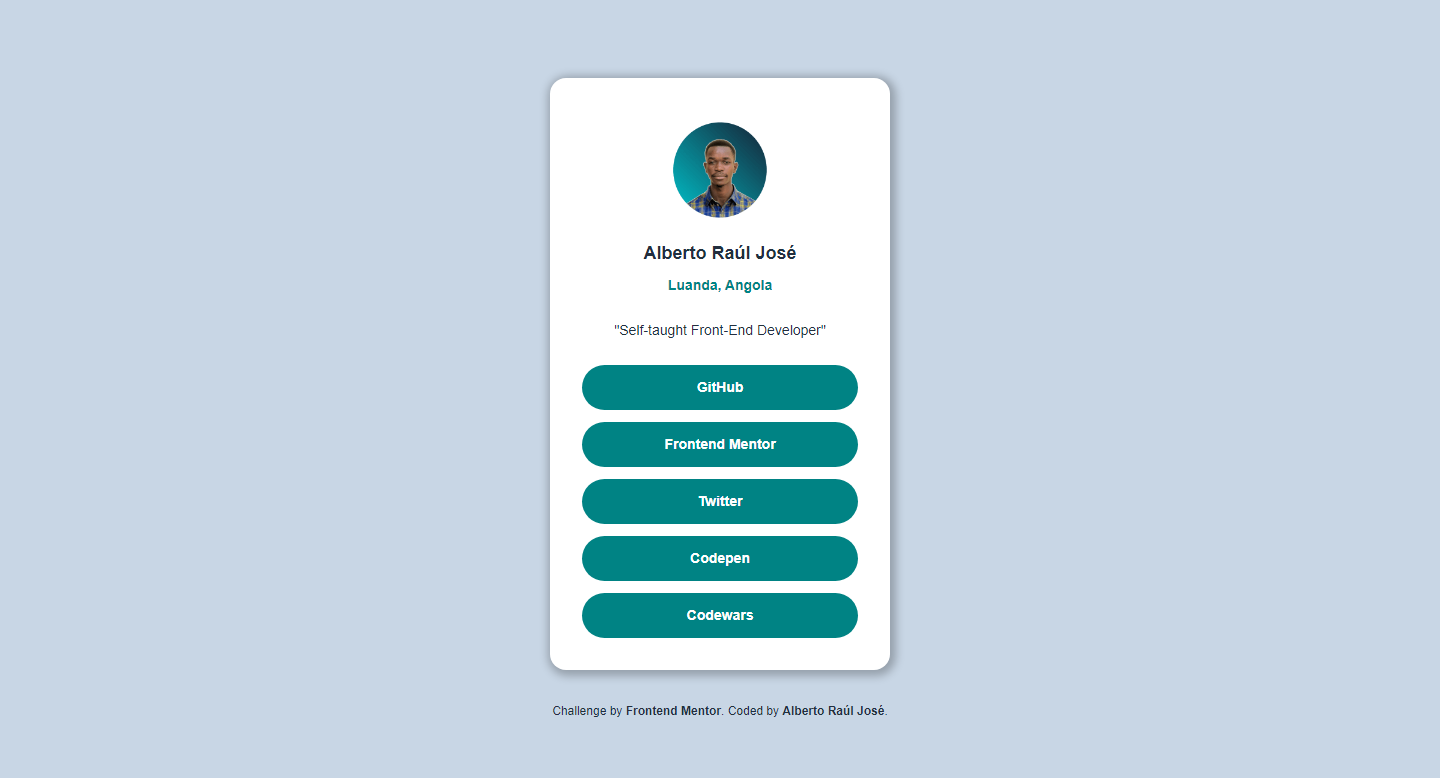
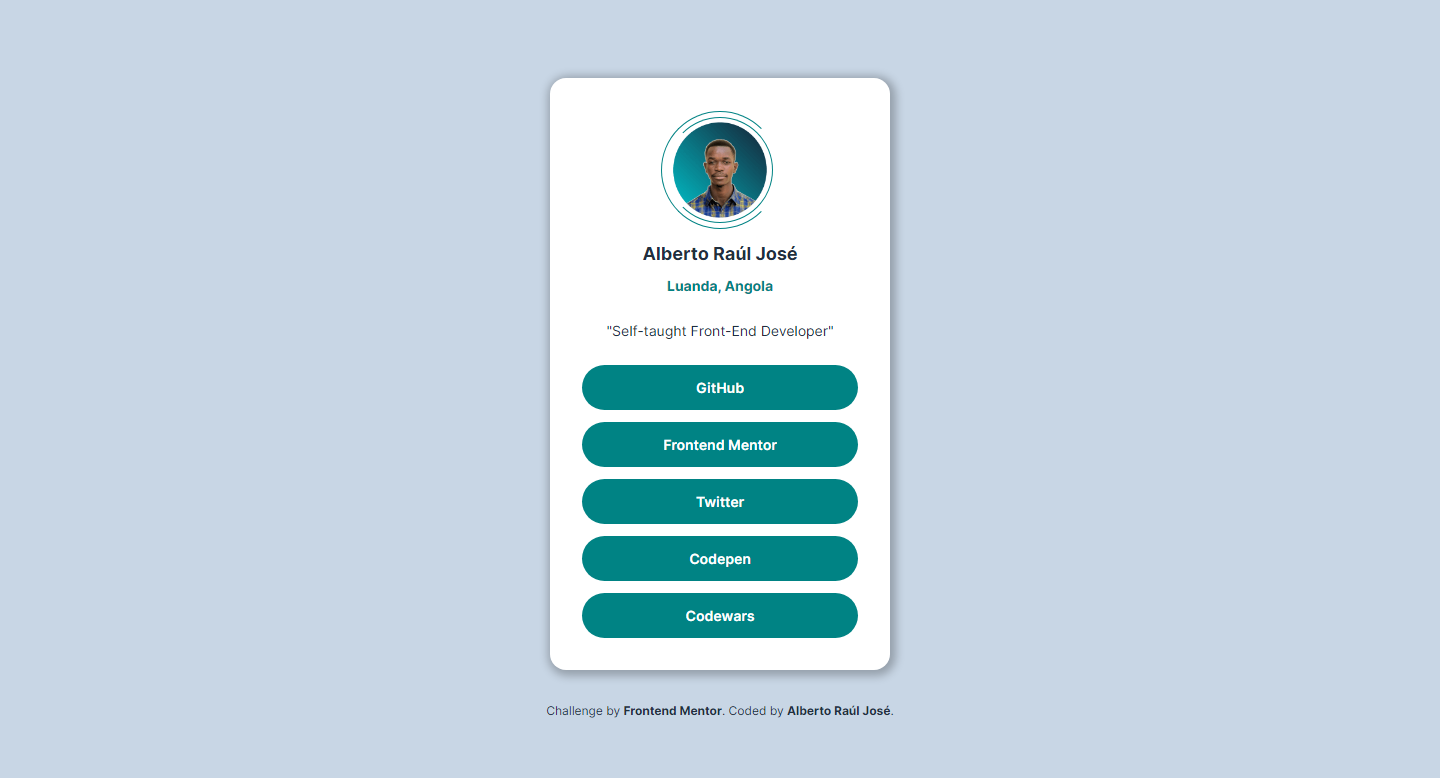
updated project

diff --git a/index.html b/index.html
@@ -10,48 +10,49 @@
   <meta name="viewport" content="width=device-width, initial-scale=1.0">
 
   <link rel="icon" type="image/png" sizes="32x32" href="./assets/images/favicon-32x32.png">
-  <link rel="stylesheet" href="style.css">
-  <link 
-    rel="stylesheet" as="font" type="font/woff2" 
-    href="./assets/fonts/Inter.woff2" 
-  />
+  <link rel="stylesheet" href="styles/fonts.css">
+  <link rel="stylesheet" href="styles/index.css">
 </head>
 <body class="page">
 
   <main class="main-content">
     <h1 class="visually-hidden">My social networks</h1>
-    <div class="card">
-      <img 
-        src="assets/images/avatar-alberto.webp" 
-        alt="A profile picture of Alberto Raúl José" 
-        width="120" 
-        height="120" 
-        class="card__user-photo"
-      />
-      <p class="card__user-name">Alberto Raúl José</p>
-      <p class="card__user-location">Luanda, Angola</p>
-      <p class="card__user-description">"Self-taught Front-End Developer"</p>
+    <div class="card traslate-from-left traslate-from-left--quick">
+      <div class="avatar traslate-from-left translate-delay-1">
+        <img 
+          src="assets/images/avatar-alberto.webp" 
+          alt="A profile picture of Alberto Raúl José" 
+          width="120" 
+          height="120" 
+          class="card__user-photo"
+        />
+        <div class="circle-1"></div>
+        <div class="circle-2"></div>
+      </div>
+      <p class="card__user-name traslate-from-left">Alberto Raúl José</p>
+      <p class="card__user-location traslate-from-left translate-delay-2">Luanda, Angola</p>
+      <p class="card__user-description traslate-from-left translate-delay-3">"Self-taught Front-End Developer"</p>
       <ul class="card__list">
-        <li class="card__list-item">
+        <li class="card__list-item traslate-from-left translate-delay-4">
           <a href="https://github.com/alberto-rj" target="_blank">GitHub</a>
         </li>
-        <li class="card__list-item">
+        <li class="card__list-item traslate-from-left translate-delay-5">
           <a href="https://frontendmentor.io?ref=challenge" target="_blank">Frontend Mentor</a>
         </li>
-        <li class="card__list-item">
+        <li class="card__list-item traslate-from-left translate-delay-6">
           <a href="https://twitter.com/albertorauljose" target="_blank">Twitter</a>
         </li>
-        <li class="card__list-item">
+        <li class="card__list-item traslate-from-left translate-delay-7">
           <a href="https://codepen.io/albertorauljose" target="_blank">Codepen</a>
         </li>
-        <li class="card__list-item">
+        <li class="card__list-item traslate-from-left translate-delay-8">
           <a href="https://codewars.com/users/albertorauljose" target="_blank">Codewars</a>
         </li>
       </ul>
     </div>
   </main>
   
-  <footer class="attribution">
+  <footer class="attribution traslate-from-left translate-delay-9">
     <p>
       Challenge by <a href="https://www.frontendmentor.io?ref=challenge" target="_blank">Frontend Mentor</a>.
       Coded by <a href="https://github.com/alberto-rj" target="_blank">Alberto Raúl José</a>.

diff --git a/styles/index.css b/styles/index.css
@@ -23,7 +23,6 @@ body {
   color: var(--color-9);
   font-family: var(--font-sans-serif);
   font-size: var(--regular-font-size);
-  font-display: swap;
   text-align: center;
   line-height: 1.5;
 }
@@ -60,13 +59,45 @@ a:focus-visible {
   max-width: 340px;
   margin: auto;
 }
+.avatar {
+  cursor: pointer;
+  position: relative;
+}
+
+.circle-1,
+.circle-2 {
+  border: 1px solid;
+  border-color: var(--color-1) var(--color-1) var(--color-1) transparent;
+  border-radius: 50%;
+  position: absolute;
+  top: 50%;
+  left: 50%;
+  width: 106px;
+  height: 106px;
+  transform: translate(-50%, -50%);
+  transition: transform 1.5s ease-in-out;
+}
+
+.circle-2 {
+  width: 7.375rem;
+  height: 7.375rem;
+  border-color: var(--color-1) transparent var(--color-1) var(--color-1);
+}
+
+.avatar:hover .circle-1 {
+  transform: translate(-50%, -50%) rotate(360deg);
+}
+
+.avatar:hover .circle-2 {
+  transform: translate(-50%, -50%) rotate(-360deg);
+}
 
 .card__user-photo {
   display: block;
   margin: 0 auto;
-  height: 120px;
+  height: 7.5rem;
   border-radius: 50%;
-  width: 120px;
+  width: 7.5rem;
 }
 
 .card__user-name {
@@ -130,8 +161,12 @@ a:focus-visible {
 /* animation */
 
 .traslate-from-left {
-  animation: translate-from-left 1.2s ease-in-out forwards;
+  animation: translate-from-left 0.5s ease-in-out forwards;
   opacity: 0;
+}
+
+.traslate-from-left--quick {
+  animation-duration: 0.25s;
 }
 
 .translate-delay-1 {

diff --git a/styles/fonts.css b/styles/fonts.css
@@ -1,0 +1,5 @@
+@font-face {
+  font-family: Inter;
+  src: url('../assets/fonts/Inter.woff2');
+  font-display: swap;
+}

diff --git a/README.md b/README.md
@@ -1,5 +1,7 @@
 # Frontend Mentor - Social links profile solution
 
+![Desktop version screenshot](screenshot/screenshot-desktop.png)
+
 This is a solution to the [Social links profile challenge on Frontend Mentor](https://www.frontendmentor.io/challenges/social-links-profile-UG32l9m6dQ). Frontend Mentor challenges help you improve your coding skills by building realistic projects.
 
 ## Table of contents
